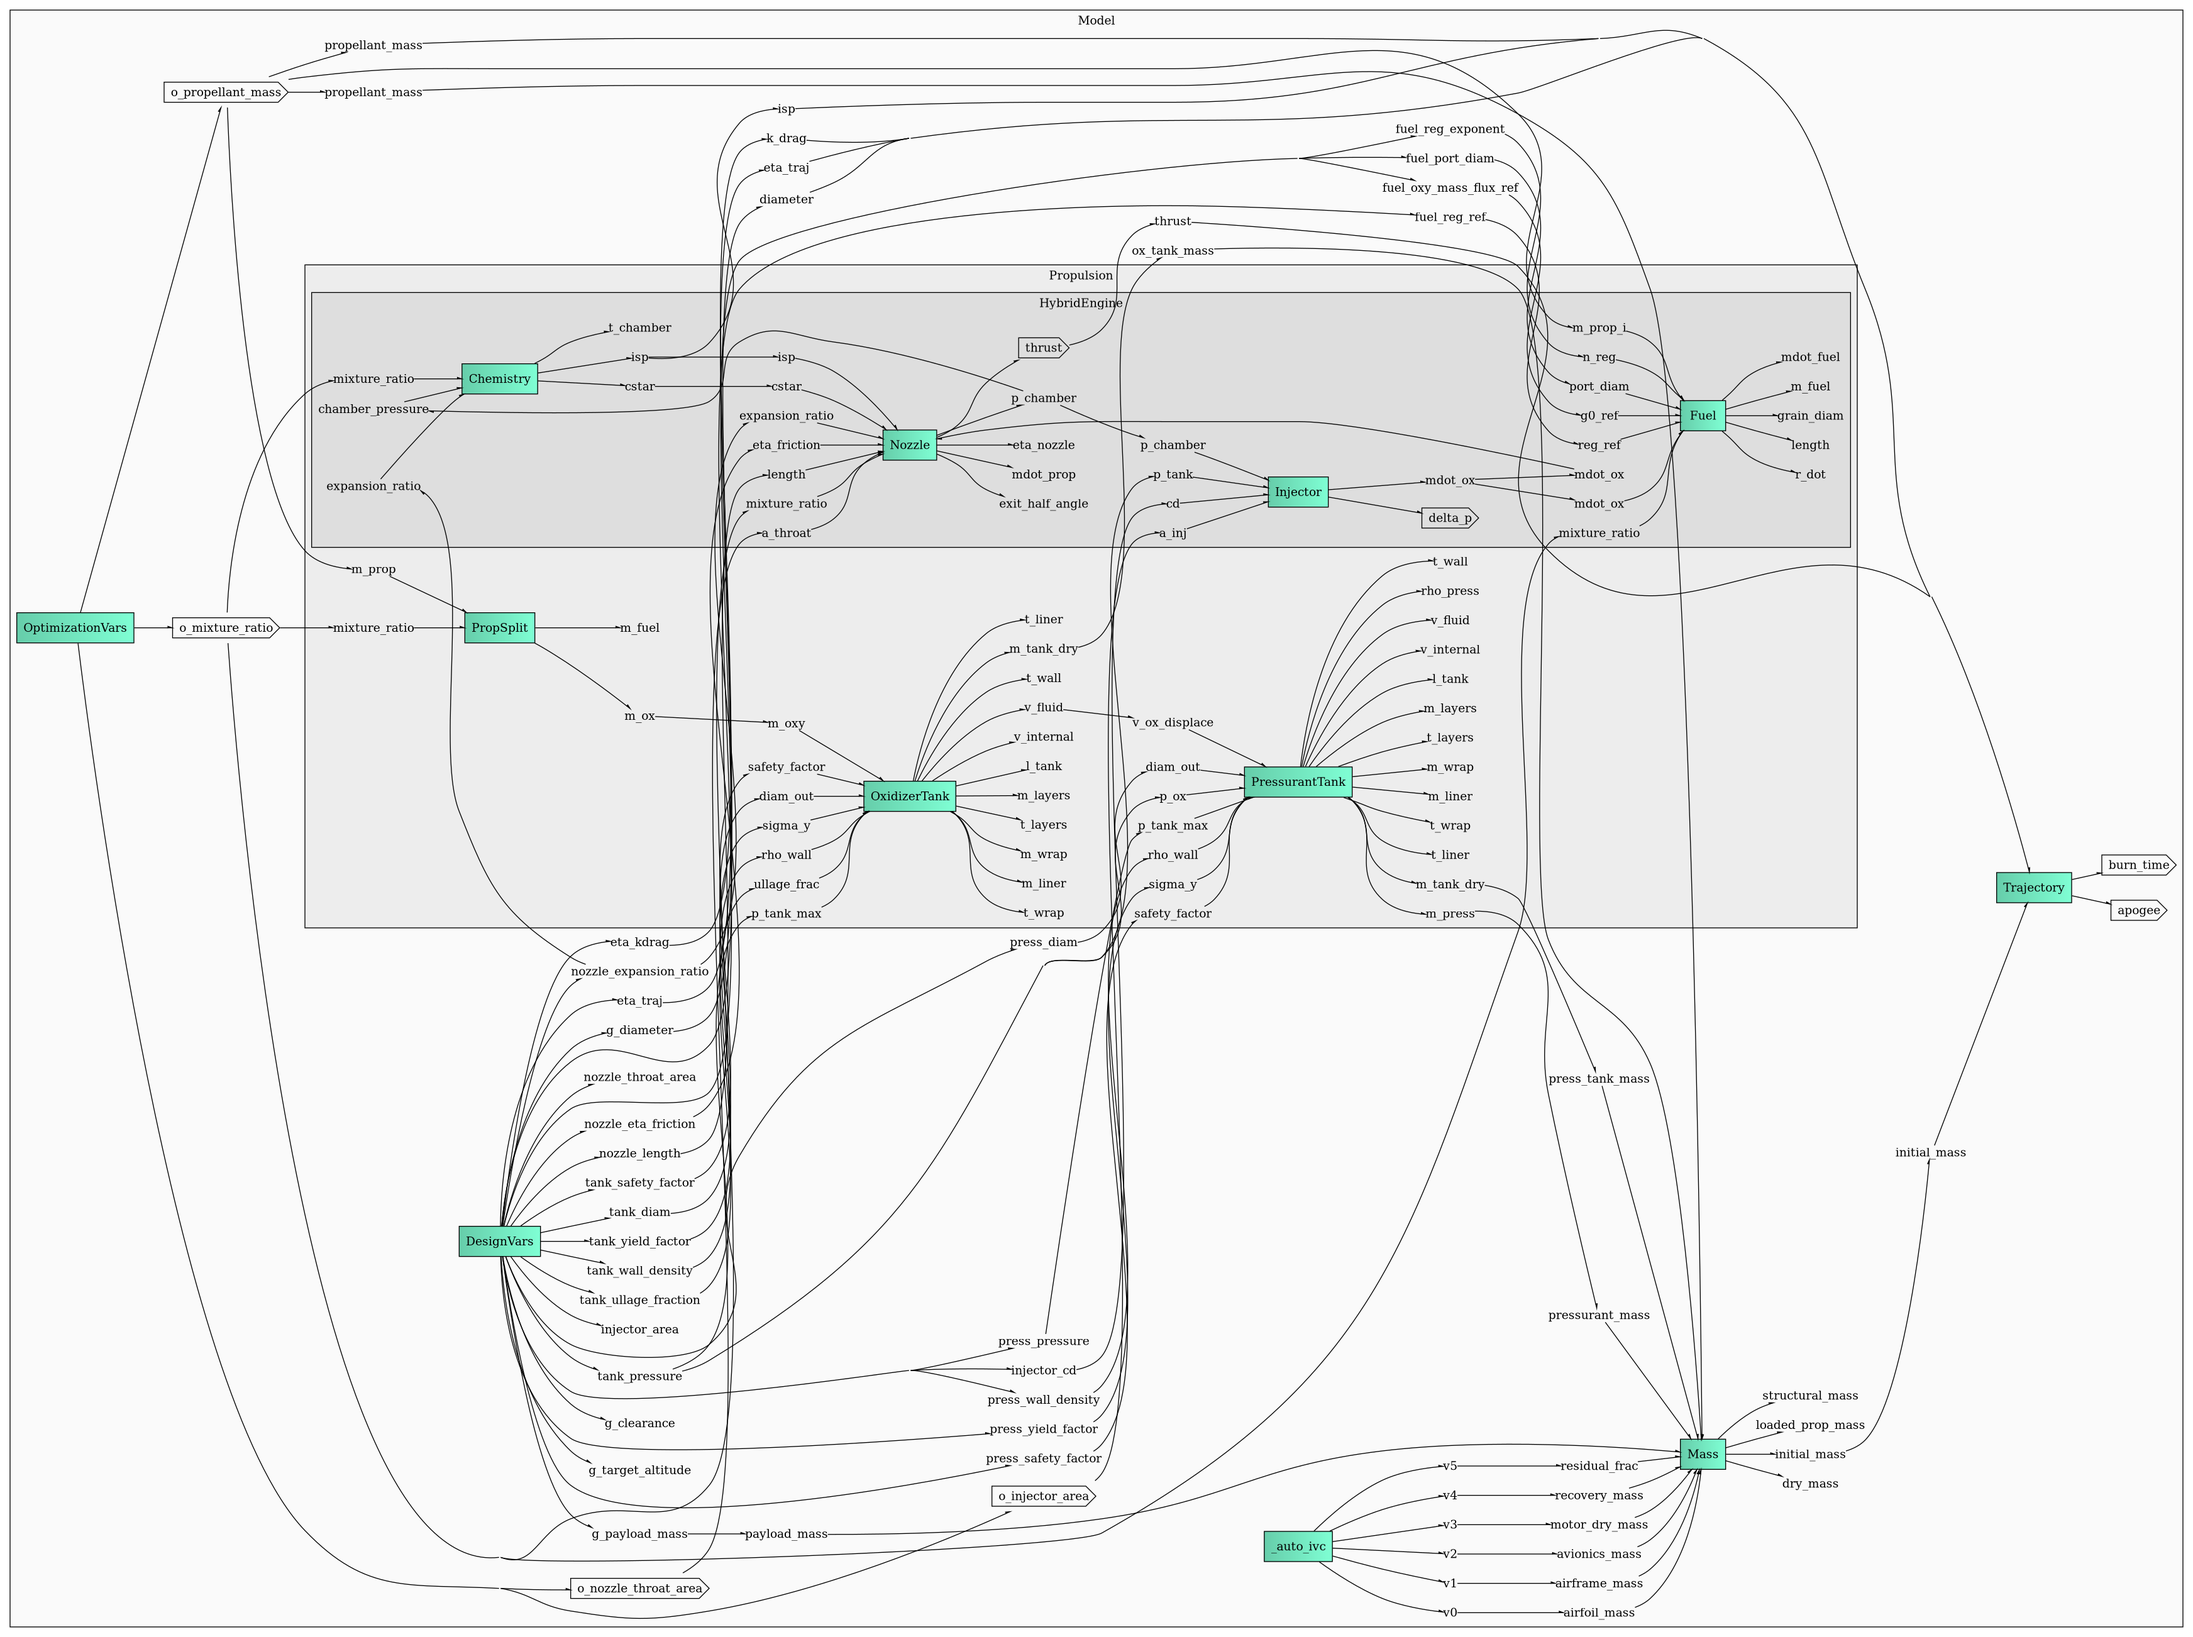
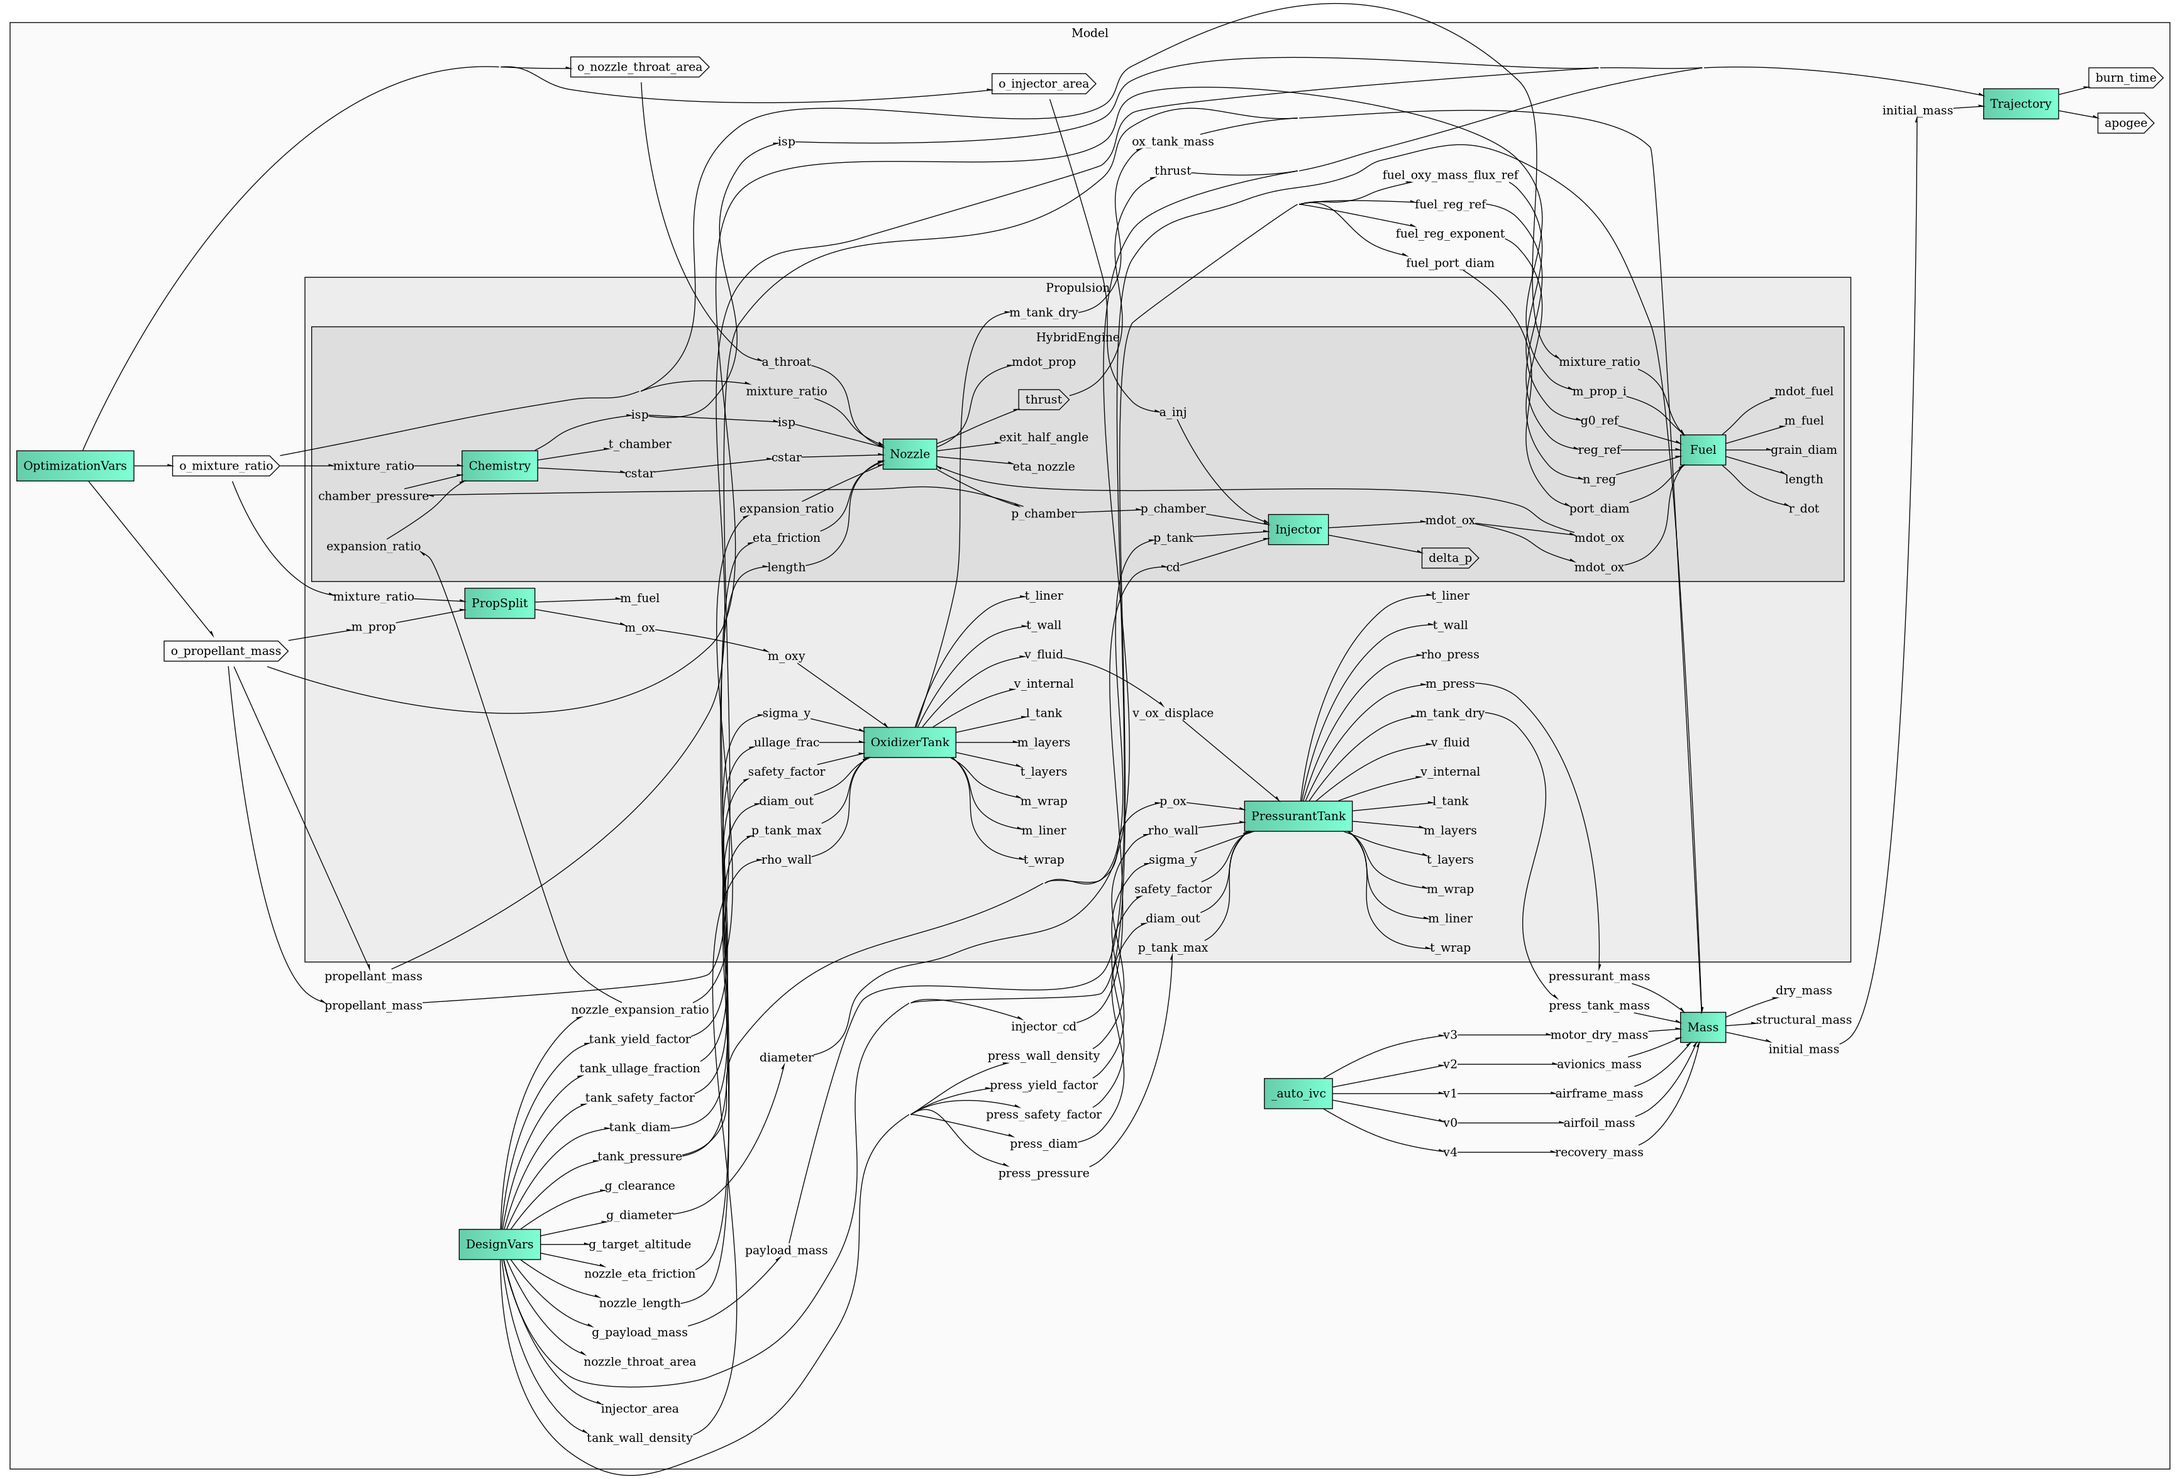
Revert "Added trajectory efficiencies; minor checks fixes"
This reverts commit d870ac001463a22200cad3b3280228926cccfe17.

diff --git a/rocket-solver/modules/BEARS_Rocket/comp_mass.py b/rocket-solver/modules/BEARS_Rocket/comp_mass.py
@@ -6,24 +6,22 @@ from openmdao.api import ExplicitComponent
 class MassComponent(ExplicitComponent):
 
 	def setup(self):
-		self.add_input("payload_mass",      val=2.0,  units="kg")
-		self.add_input("propellant_mass",   val=10.0, units="kg")
-		self.add_input("pressurant_mass",   val=0.5,  units="kg")
-		self.add_input("residual_frac",     val=0.15)
+		self.add_input("payload_mass",     val=2.0,  units="kg")
+		self.add_input("propellant_mass",  val=10.0, units="kg")
+		self.add_input("pressurant_mass",  val=0.5,  units="kg")
 
-		self.add_input("ox_tank_mass",      val=2.0,  units="kg")
-		self.add_input("press_tank_mass",   val=2.0,  units="kg")
-		self.add_input("motor_dry_mass",    val=4.0,  units="kg")
+		self.add_input("ox_tank_mass",     val=2.0,  units="kg")
+		self.add_input("press_tank_mass",  val=2.0,  units="kg")
+		self.add_input("motor_dry_mass",   val=4.0,  units="kg")
 
-		self.add_input("airframe_mass",     val=5.0,  units="kg")
-		self.add_input("recovery_mass",     val=2.5,  units="kg")
-		self.add_input("avionics_mass",     val=2.5,  units="kg")
-		self.add_input("airfoil_mass",      val=1.0,  units="kg")
+		self.add_input("airframe_mass",    val=5.0,  units="kg")
+		self.add_input("recovery_mass",    val=2.5,  units="kg")
+		self.add_input("avionics_mass",    val=2.5,  units="kg")
+		self.add_input("airfoil_mass",     val=1.0,  units="kg")
 
-		self.add_output("structural_mass",  val=18.0, units="kg")
-		self.add_output("dry_mass",         val=20.0, units="kg")
-		self.add_output("initial_mass",     val=40.0, units="kg")
-		self.add_output("loaded_prop_mass", val=12.0, units="kg")
+		self.add_output("structural_mass", val=18.0, units="kg")
+		self.add_output("dry_mass",        val=20.0, units="kg")
+		self.add_output("initial_mass",    val=40.0, units="kg")
 
 	def setup_partials(self):
 		self.declare_partials("*", "*", method="cs")
@@ -40,15 +38,12 @@ class MassComponent(ExplicitComponent):
 		)
 
 		m_prop    = inputs["propellant_mass"]
-		f_res     = inputs["residual_frac"]
-		m_loaded  = m_prop * (1.0 + f_res)
 		m_press   = inputs["pressurant_mass"]
 		m_payload = inputs["payload_mass"]
 
 		m_dry = m_payload + m_struct
-		m_init = m_dry + m_loaded + m_press
+		m_init = m_dry + m_prop + m_press
 
-		outputs["structural_mass"]  = m_struct
-		outputs["dry_mass"]         = m_dry
-		outputs["initial_mass"]     = m_init
-		outputs["loaded_prop_mass"] = m_loaded
+		outputs["structural_mass"] = m_struct
+		outputs["dry_mass"]        = m_dry
+		outputs["initial_mass"]    = m_init

diff --git a/rocket-solver/modules/BEARS_Rocket/comp_traj.py b/rocket-solver/modules/BEARS_Rocket/comp_traj.py
@@ -26,7 +26,7 @@ def F_d(v: float, diam: float, rho: float, a: float) -> float:
 		cd = 0.48 + (mach - 0.8) * ( (0.85 - 0.48) / (1.2 - 0.8) )
 	elif mach < 2.0:
 		# Supersonic: drag decreases as Mach number increases
-		cd = 0.85 - (mach - 1.2) * ( (0.85 - 0.65) / (2.0 - 1.2) )
+		cd = 0.85 + (mach - 1.2) * ( (0.85 - 0.65) / (2.0 - 1.2) )
 	else:
 		# High supersonic
 		cd = 0.65
@@ -35,14 +35,12 @@ def F_d(v: float, diam: float, rho: float, a: float) -> float:
 	return drag
 
 def ballistic_apogee(
-	thrust   : float,
-	isp      : float,
-	m_i      : float,
-	m_prop   : float,
-	diam     : float,
-	atm      : BEARS_Atm,
-	eta_traj : float = 0.95,
-	k_drag   : float = 1.15,
+	thrust : float,
+	isp    : float,
+	m_i    : float,
+	m_prop : float,
+	diam   : float,
+	atm    : BEARS_Atm
 ) -> tuple[float, float]:
 	"""
 	Simple ballistic apogee calculator.
@@ -58,22 +56,19 @@ def ballistic_apogee(
 		h, v = y
 		m = m_i - mdot * t
 
-		_, _, rho, a = atm(max(0.0, h))
+		_, _, rho, a = atm(h)
 
 		dh_dt = v
-		dv_dt = (thrust * eta_traj - F_d(v, diam, rho, a) * k_drag) / m - g
-		if h <= 0.0 and dv_dt < 0.0:
-			dv_dt = 0.0
-			dh_dt = max(0.0, dh_dt)
+		dv_dt = (thrust - F_d(v, diam, rho, a)) / m - g
 		return [dh_dt, dv_dt]
 
 	def dynamics_coast(t, y):
 		h, v = y
 
-		_, _, rho, a = atm(max(0.0, h))
+		_, _, rho, a = atm(h)
 
 		dh_dt = v
-		dv_dt = -F_d(v, diam, rho, a) * k_drag / m_burnout - g
+		dv_dt = -F_d(v, diam, rho, a) / m_burnout - g
 		return [dh_dt, dv_dt]
 
 	# A SciPy integration event that captures the moment when velocity reaches 0
@@ -186,8 +181,6 @@ class TrajectoryComponent(ExplicitComponent):
 		self.add_input("initial_mass",    val=15.0, units="kg")
 		self.add_input("propellant_mass", val=5.0,  units="kg")
 		self.add_input("diameter",        val=0.5,  units="m")
-		self.add_input("eta_traj",        val=0.95)
-		self.add_input("k_drag",          val=1.15)
 
 		self.add_output("apogee",         val=3000.0, units="m")
 		self.add_output("burn_time",      val=3.0,    units="s")
@@ -230,12 +223,9 @@ class TrajectoryComponent(ExplicitComponent):
 		m_i    = inputs["initial_mass"][0]
 		m_prop = inputs["propellant_mass"][0]
 		diam   = inputs["diameter"][0]
-		eta_t  = inputs["eta_traj"][0]
-		k_d    = inputs["k_drag"][0]
 
 		burn_time, apogee = ballistic_apogee(
-			thrust, isp, m_i, m_prop, diam, atm,
-			eta_traj=eta_t, k_drag=k_d,
+			thrust, isp, m_i, m_prop, diam, atm
 		)
 
 		outputs["burn_time"] = burn_time

diff --git a/rocket-solver/modules/BEARS_Chem/chem.py b/rocket-solver/modules/BEARS_Chem/chem.py
@@ -17,17 +17,10 @@ fts_to_ms  = 0.3048      # 1 ft/s = 0.3048 m/s
 
 class BEARS_Chem:
 
-	def __init__(
-		self,
-		cea       : CEA_Obj,
-		rho_ox    : float,
-		rho_fuel  : float,
-		eta_cstar : float = 0.85,
-	):
-		self._cea      = cea
-		self.rho_ox    = rho_ox
-		self.rho_fuel  = rho_fuel
-		self.eta_cstar = eta_cstar
+	def __init__(self, cea: CEA_Obj, rho_ox: float, rho_fuel: float):
+		self._cea     = cea
+		self.rho_ox   = rho_ox
+		self.rho_fuel = rho_fuel
 
 	@classmethod
 	def set_work_dir(cls, path: str | Path):
@@ -69,10 +62,7 @@ class BEARS_Chem:
 		return cls(cea, densities["oxid"], densities["fuel"])
 
 	def get_cstar(self, pc_pa: float, mr: float) -> float:
-		#pc_safe = max(1.5e5, pc_pa)
-		pc_safe = pc_pa
-		cstar = self._cea.get_Cstar(Pc=pc_safe * pa_to_psia, MR=mr) * fts_to_ms
-		return cstar * self.eta_cstar
+		return self._cea.get_Cstar(Pc=pc_pa * pa_to_psia, MR=mr) * fts_to_ms
 
 	def get_isp(
 		self,
@@ -81,18 +71,13 @@ class BEARS_Chem:
 		eps      : float,
 		p_amb_pa : float = 101325.0
 	) -> float:
-		#pc_safe = max(1.5e5, pc_pa)
-		pc_safe = pc_pa
-		pc_psia = pc_safe * pa_to_psia
+		pc_psia = pc_pa * pa_to_psia
 		if p_amb_pa > 0.0:
 			p_amb_psia = p_amb_pa * pa_to_psia
 			isp, _ = self._cea.estimate_Ambient_Isp(
 				Pc=pc_psia, MR=mr, eps=eps, Pamb=p_amb_psia
 			)
-		else:
-			isp = self._cea.get_Isp(Pc=pc_psia, MR=mr, eps=eps)
-
-		return float(isp) * self.eta_cstar
+		return float(self._cea.get_Isp(Pc=pc_psia, MR=mr, eps=eps))
 
 	def get_tcomb(self, pc_pa: float, mr: float) -> float:
 		return self._cea.get_Tcomb(Pc=pc_pa * pa_to_psia, MR=mr) * (5.0 / 9.0)

diff --git a/rocket-solver/modules/BEARS_Rocket/prob_rocket.py b/rocket-solver/modules/BEARS_Rocket/prob_rocket.py
@@ -22,7 +22,7 @@ class RocketLaunchProblem(Problem):
 		atm                 : BEARS_Atm,
 		chem                : BEARS_Chem,
 		payload_mass        : float = 1.0,
-		target_apogee       : float = 3000.0,
+		target_apogee       : float = 3100.0,
 		ox_wall_material    = None,
 		press_wall_material = None,
 		checks              : tuple[CheckFn, ...] = DEFAULT_ROCKET_CHECKS,
@@ -87,13 +87,13 @@ class RocketLaunchProblem(Problem):
 			"burn_time",
 			lower = 5.0,
 			upper = 15.0,
-			ref   = 7.0,
+			ref   = 6.0,
 		)
 
 		self.model.add_constraint(
 			"Propulsion.prop_thrust",
-			upper = 1000.0,
-			ref   = 900.0,
+			upper = 1200.0,
+			ref   = 1000.0,
 		)
 
 		# Injector pressure drop safety margin
@@ -151,7 +151,6 @@ class RocketLaunchProblem(Problem):
 
 		self.verify()
 
-		m_load = self.get_val("Mass.loaded_prop_mass",                 units="kg")[0]
 		m_prop = self.get_val("OptimizationVars.o_propellant_mass",    units="kg")[0]
 		a_inj  = self.get_val("OptimizationVars.o_injector_area",      units="mm**2")[0]
 		a_thr  = self.get_val("OptimizationVars.o_nozzle_throat_area", units="cm**2")[0]
@@ -176,7 +175,6 @@ class RocketLaunchProblem(Problem):
 		print(f"Optimized MR:         \t{mr:{FMT}}")
 		print("")
 		print(f"Apogee:               \t{ap:{FMT}} m")
-		print(f"Loaded m_prop:        \t{m_load:{FMT}} kg")
 		print(f"Burn time:            \t{t_burn:{FMT}} s")
 		print(f"Liftoff thrust:       \t{thr:{FMT}} N")
 		print(f"Liftoff Isp:          \t{isp:{FMT}} s")

diff --git a/rocket-solver/modules/BEARS_Rocket/checks.py b/rocket-solver/modules/BEARS_Rocket/checks.py
@@ -58,18 +58,13 @@ def check_mass_balance(prob: Problem) -> tuple[CheckResult, ...]:
 	mprop = prob.get_val("OptimizationVars.o_propellant_mass", units="kg")[0]
 	mpr   = prob.get_val("Mass.pressurant_mass",               units="kg")[0]
 
-	try:
-		mprop = prob.get_val("Mass.loaded_prop_mass", units="kg")[0]
-	except KeyError:
-		pass
-
 	mcalc = mdry + mprop + mpr
 
 	if abs(mi - mcalc) > 1e-3:
 		return (CheckResult(
 			"error",
-			f"Mass balance mismatch: {mi:.3f} kg != {mcalc:.3f} kg"
-		),)
+			f"Mass balance mismatch: {mi:.3f} kg != {mc:.3f} kg"
+		))
 	
 	return ()
 
@@ -83,7 +78,7 @@ def check_target_apogee(prob: Problem) -> tuple[CheckResult, ...]:
 		return (CheckResult(
 			"error",
 			f"Apogee target error is {res['apogee_error_m']:.2f} m"
-		),)
+		))
 
 	return ()
 
@@ -192,17 +187,13 @@ DEFAULT_TESTSTAND_CHECKS: tuple[CheckFn, ...] = (
 )
 
 def run_checks(
-	prob           : Problem,
+	res            : dict,
 	checks         : tuple[CheckFn, ...],
 	raise_on_error : bool = True,
 ) -> tuple[CheckResult, ...]:
 	results: list[CheckResult] = []
 	for check in checks:
-		out = check(prob)
-		if isinstance(out, CheckResult):
-			results.append(out)
-		else:
-			results.extend(out)
+		results.extend(check(res))
 
 	errors   = [r.message for r in results if r.severity == "error"]
 	warnings = [r.message for r in results if r.severity == "warning"]

diff --git a/rocket-solver/modules/BEARS_Rocket/group_rocket.py b/rocket-solver/modules/BEARS_Rocket/group_rocket.py
@@ -42,10 +42,6 @@ class RocketGroup(Group):
 		# Clearance for component mounting
 		ivc.add_output("g_clearance",            val=0.002,  units="m")
 
-		# Efficiencies
-		ivc.add_output("eta_traj",               val=0.95)
-		ivc.add_output("eta_kdrag",              val=1.15)
-
 		# - Oxidizer tank
 		# NOTE: the tank component expects pressure in SI Pa units,
 		#       here we specify the pressure in units of bar used by the team
@@ -146,8 +142,6 @@ class RocketGroup(Group):
 
 		# - Trajectory
 		self.connect("DesignVars.g_diameter",              "Trajectory.diameter")
-		self.connect("DesignVars.eta_traj",                "Trajectory.eta_traj")
-		self.connect("DesignVars.eta_kdrag",               "Trajectory.k_drag")
 		self.connect("Propulsion.prop_isp",                "Trajectory.isp")
 		self.connect("Propulsion.prop_thrust",             "Trajectory.thrust")
 		self.connect("Mass.initial_mass",                  "Trajectory.initial_mass")

diff --git a/rocket-solver/modules/Config/records.py b/rocket-solver/modules/Config/records.py
@@ -9,8 +9,6 @@ class GlobalConfig:
 	target_altitude_m       : float # [m]
 	diameter_m              : float # [m]
 	clearance_m             : float # [m]
-	eta_traj                : float = 0.95
-	eta_kdrag               : float = 1.15
 
 @dataclass(frozen=True)
 class TankConfig:
